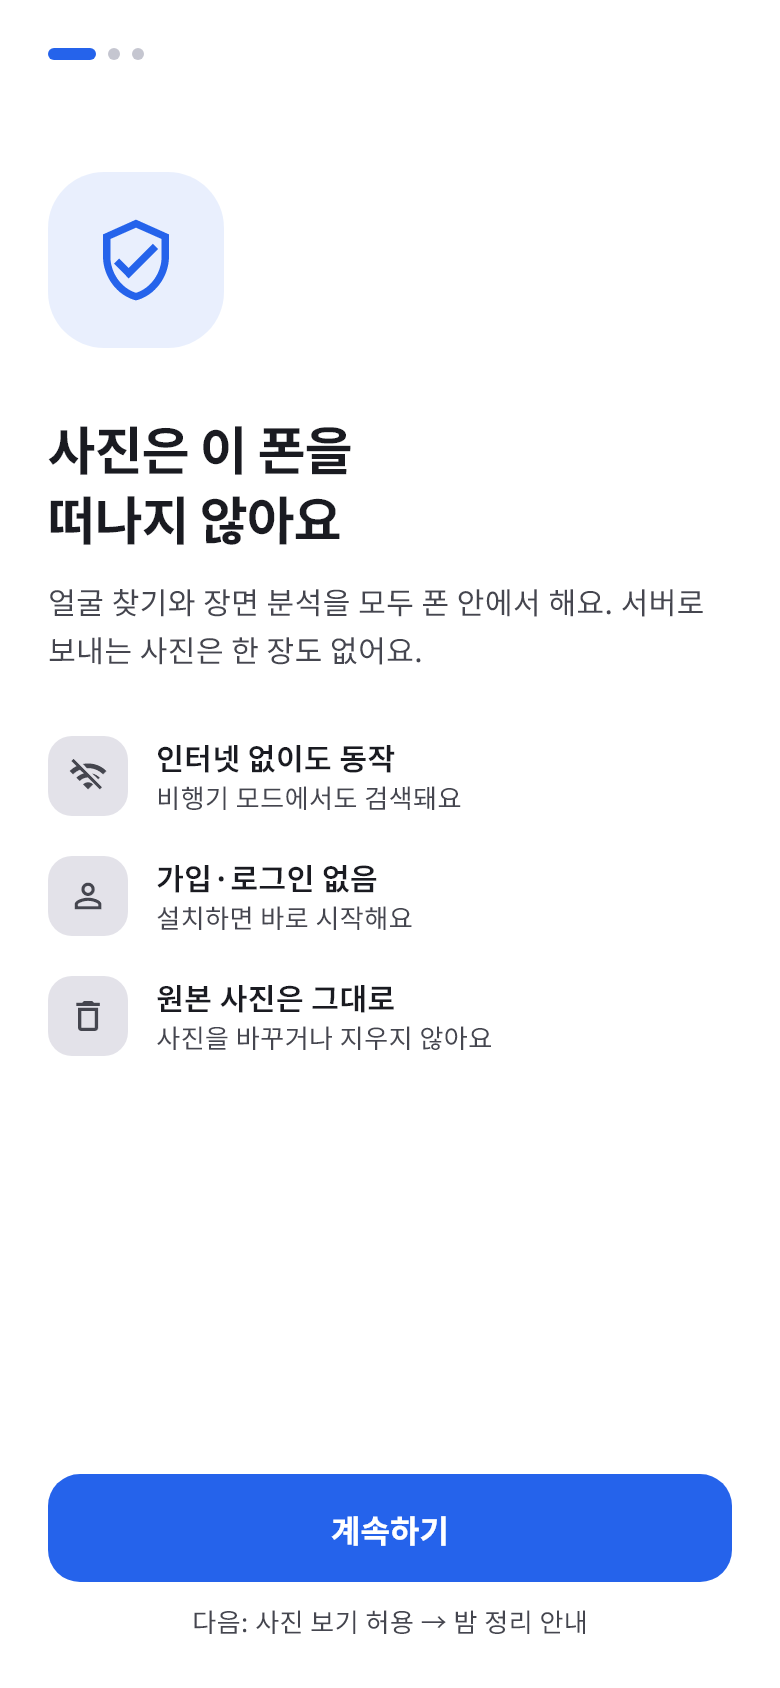
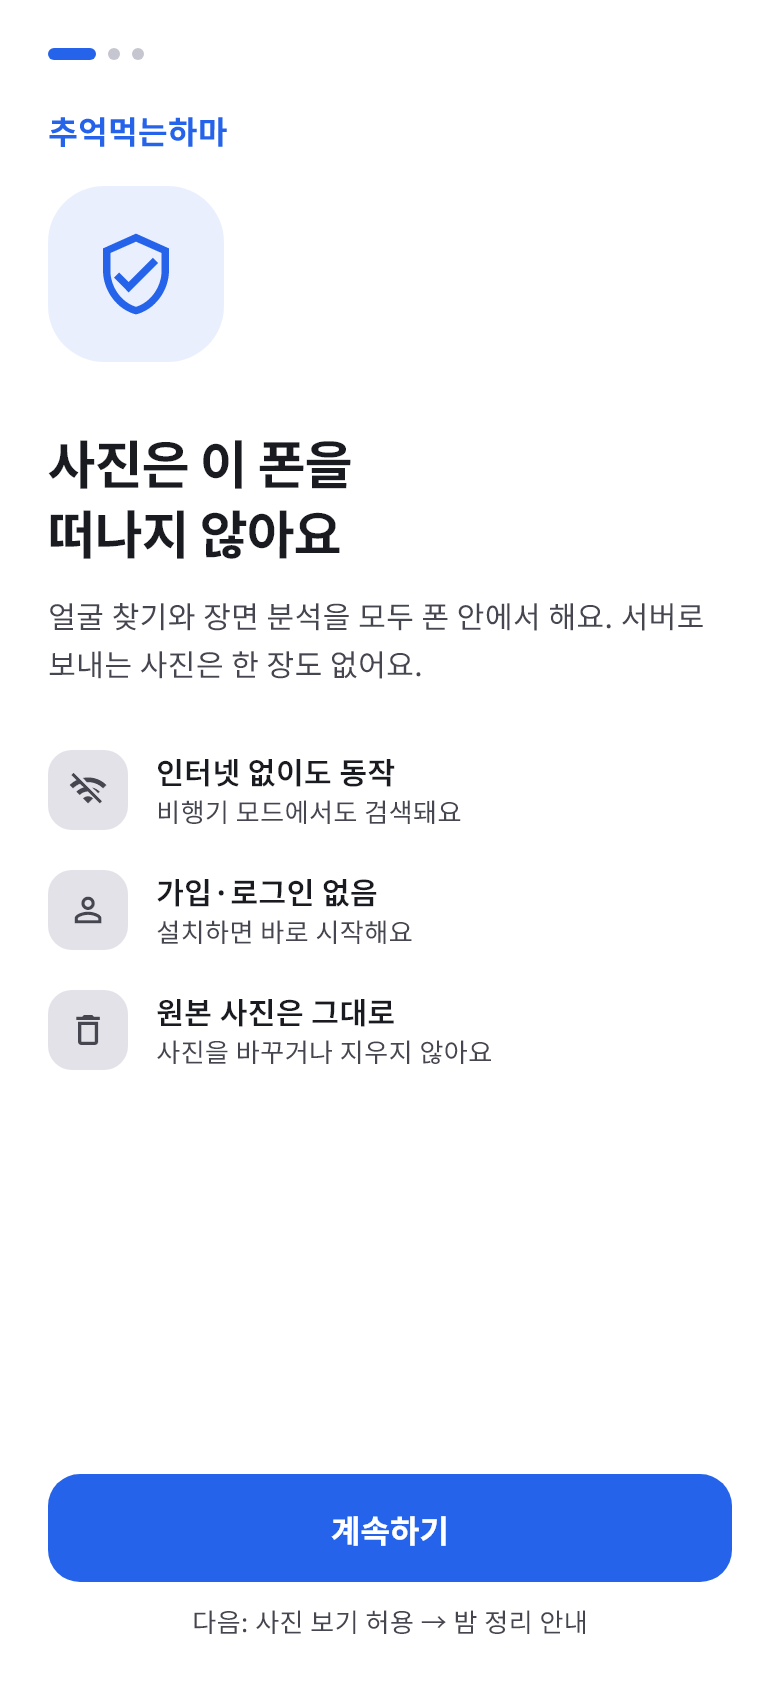
앱 이름을 '추억먹는하마'로
용어먹는하마(https://github.com/reddol18/dev_keyword_test)와 같은 작명: 기억을 맡는 해마(hippocampus)에서 하마(Hippo).

- 런처 이름(AndroidManifest android:label), MaterialApp title, 라이선스 화면 이름
- 샤오미·삼성 안내 문구 속 앱 이름(설정 목록에서 찾을 이름이라 런처 이름과 같게)
- 처음 실행 첫 화면 맨 위에 앱 이름 한 줄
- README 제목과 이름 뜻, docs/screens/onboarding.png 다시 그림

패키지 이름(com.reddol18.photo_tracer)·저장소 이름은 그대로 — 바꾸면 설치된 앱 데이터를 잃는다.

Claude-Session: https://claude.ai/code/session_012zh1kHwaVLLQ6nFo98kw4q

diff --git a/app/lib/ui/onboarding.dart b/app/lib/ui/onboarding.dart
@@ -89,15 +89,21 @@ class _OnboardingPageState extends State<OnboardingPage> with WidgetsBindingObse
 }
 
 class _Head extends StatelessWidget {
-  const _Head(this.title, this.body, {this.icon});
+  const _Head(this.title, this.body, {this.icon, this.appName = false});
   final String title, body;
   final IconData? icon;
+  final bool appName; // 첫 화면 맨 위에 앱 이름을 작게 한 줄
 
   @override
   Widget build(BuildContext context) {
     final cs = Theme.of(context).colorScheme;
     return Column(crossAxisAlignment: CrossAxisAlignment.start, children: [
-      SizedBox(height: icon == null ? 40 : 56),
+      if (appName) ...[
+        const SizedBox(height: 24),
+        Text('추억먹는하마', style: TextStyle(fontSize: 16, fontWeight: FontWeight.w700, color: cs.primary)),
+        const SizedBox(height: 16),
+      ] else
+        SizedBox(height: icon == null ? 40 : 56),
       if (icon != null) ...[
         Container(
           width: 88, height: 88,
@@ -138,7 +144,7 @@ class _Promise extends StatelessWidget {
         );
     return SingleChildScrollView(
       child: Column(crossAxisAlignment: CrossAxisAlignment.start, children: [
-        const _Head('사진은 이 폰을\n떠나지 않아요', '얼굴 찾기와 장면 분석을 모두 폰 안에서 해요. 서버로 보내는 사진은 한 장도 없어요.', icon: Icons.verified_user_outlined),
+        const _Head('사진은 이 폰을\n떠나지 않아요', '얼굴 찾기와 장면 분석을 모두 폰 안에서 해요. 서버로 보내는 사진은 한 장도 없어요.', icon: Icons.verified_user_outlined, appName: true),
         const SizedBox(height: 32),
         row(Icons.wifi_off, '인터넷 없이도 동작', '비행기 모드에서도 검색돼요'),
         row(Icons.person_outline, '가입·로그인 없음', '설치하면 바로 시작해요'),
@@ -171,14 +177,14 @@ class PermissionsList extends StatelessWidget {
     if (RegExp('xiaomi|redmi|poco').hasMatch(m)) {
       return (
         title: '샤오미 폰: 자동 시작 켜기',
-        body: '목록에서 Photo Tracer의 "자동 시작"을 켜 주세요. 꺼져 있으면 폰을 다시 켠 뒤 밤 정리가 깨어나지 못해요.',
+        body: '목록에서 추억먹는하마의 "자동 시작"을 켜 주세요. 꺼져 있으면 폰을 다시 켠 뒤 밤 정리가 깨어나지 못해요.',
         button: '자동 시작 설정 열기',
       );
     }
     if (m == 'samsung') {
       return (
         title: '삼성 폰: 절전 예외 앱에 넣기',
-        body: '배터리 › 백그라운드 사용 제한 › "절전 예외 앱"에 Photo Tracer를 넣어 주세요. 며칠 앱을 안 열면 잠자기 앱이 되어 정리가 멈출 수 있어요.',
+        body: '배터리 › 백그라운드 사용 제한 › "절전 예외 앱"에 추억먹는하마를 넣어 주세요. 며칠 앱을 안 열면 잠자기 앱이 되어 정리가 멈출 수 있어요.',
         button: '설정 열기',
       );
     }

diff --git a/app/lib/ui/settings.dart b/app/lib/ui/settings.dart
@@ -135,7 +135,7 @@ class _SettingsPageState extends State<SettingsPage> {
       ]),
       group('정보', [
         link('개인정보 처리방침', onTap: () => go(const PrivacyPage())),
-        link('오픈소스 라이선스', onTap: () => showLicensePage(context: context, applicationName: 'Photo Tracer')),
+        link('오픈소스 라이선스', onTap: () => showLicensePage(context: context, applicationName: '추억먹는하마')),
         link('진단 정보', sub: '정리 기록, 인물 찾기에서 뺀 이미지', onTap: () => go(const DiagnosticsPage())),
       ]),
       const SizedBox(height: 16),

diff --git a/app/lib/main.dart b/app/lib/main.dart
@@ -33,7 +33,7 @@ class PhotoTracerApp extends StatelessWidget {
   Widget build(BuildContext context) => ValueListenableBuilder(
         valueListenable: Look.current,
         builder: (context, look, _) => MaterialApp(
-          title: 'Photo Tracer',
+          title: '추억먹는하마',
           theme: buildTheme(look.accent, Brightness.light),
           darkTheme: buildTheme(look.accent, Brightness.dark),
           themeMode: look.mode,

diff --git a/README.md b/README.md
@@ -1,4 +1,8 @@
-# Photo Tracer
+# 추억먹는하마
+
+(저장소 이름: photo_tracer)
+
+이름은 기억을 맡는 뇌 부위 해마(hippocampus)에서 하마(Hippo)를 따왔습니다. 추억(사진)을 먹어 치우며 정리하는 하마라는 뜻입니다. 같은 작명을 쓴 앱으로 [용어먹는하마](https://github.com/reddol18/dev_keyword_test)가 있습니다.
 
 폰 안의 사진을 인터넷 없이 기기에서 분석해, 가족 구성원·일(구간)별로 묶고 "작년 여름 아이랑 바닷가"처럼 한국어로 찾는 Android 앱입니다.
 
